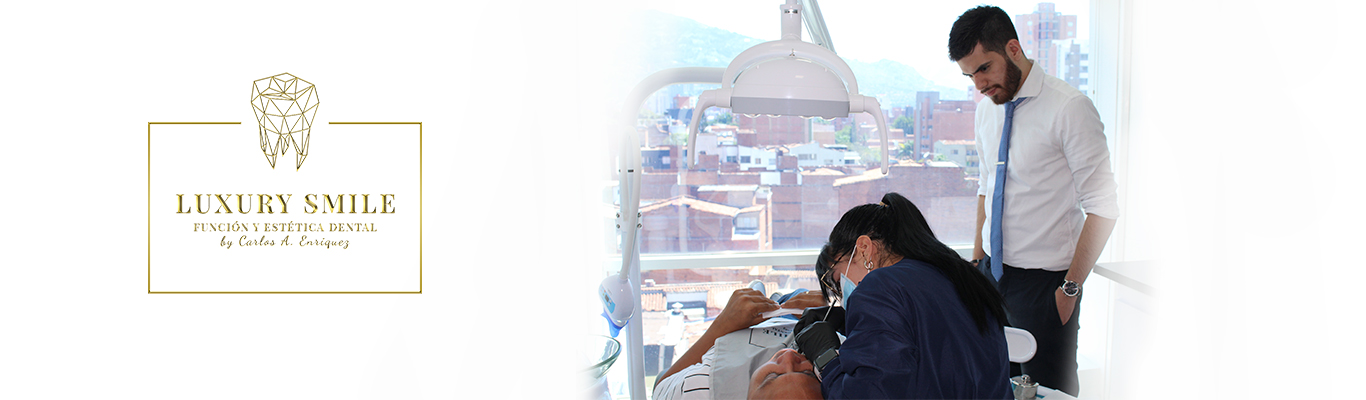
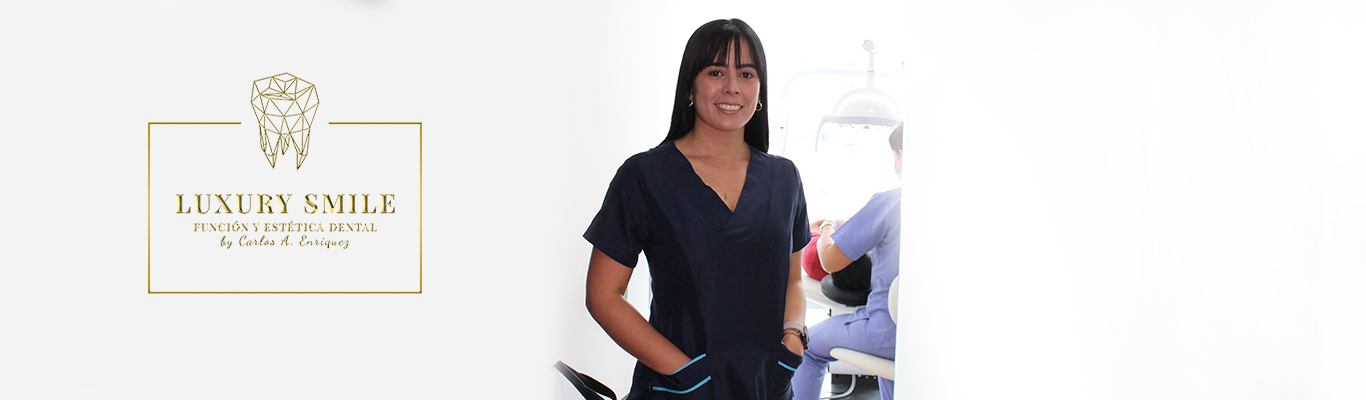
Changes required by client

diff --git a/src/components/Consultory/ConsultoryCarousel.tsx b/src/components/Consultory/ConsultoryCarousel.tsx
@@ -10,6 +10,14 @@ import  ThirdSlide from '../images/slider-desk-nosotros-3.jpg'
 import  ThirdSlideMobile from '../images/slider-mobile-nosotros-3.jpg'
 import  FourthSlide from '../images/slider-desk-nosotros-4.jpg'
 import  FourthSlideMobile from '../images/slider-mobile-nosotros-4.jpg'
+import  FifthSlide from '../images/slider-desk-nosotros-5.jpg'
+import  FifthSlideMobile from '../images/slider-mobile-nosotros-5.jpg'
+import  SixSlide from '../images/slider-desk-nosotros-6.jpg'
+import  SixSlideMobile from '../images/slider-mobile-nosotros-6.jpg'
+import  SeventhSlide from '../images/slider-desk-nosotros-7.jpg'
+import  SeventhSlideMobile from '../images/slider-mobile-nosotros-7.jpg'
+import  EigthSlide from '../images/slider-desk-nosotros-8.jpg'
+import  EigthSlideMobile from '../images/slider-mobile-nosotros-8.jpg'
 import AliceCarousel from 'react-alice-carousel';
 import { NavLink } from "react-router-dom";
 
@@ -21,6 +29,10 @@ const ConsultoryCarousel:React.FC = () => {
         <img src={isMobile ? SecondSlideMobile:SecondSlide} />,
         <img src={isMobile ? ThirdSlideMobile:ThirdSlide} />,
         <img src={isMobile ? FourthSlideMobile:FourthSlide} />,
+        <img src={isMobile ? FifthSlideMobile:FifthSlide} />,
+        <img src={isMobile ? SixSlideMobile:SixSlide} />,
+        <img src={isMobile ? SeventhSlideMobile:SeventhSlide} />,
+        <img src={isMobile ? EigthSlideMobile:EigthSlide} />,
                 
         ]
     return(

diff --git a/src/components/Home/HomeComponents/TreatmentsList.tsx b/src/components/Home/HomeComponents/TreatmentsList.tsx
@@ -10,12 +10,12 @@ const TreatmentsList:TreatmentModel[] = [
         title: 'Diseño de sonrisa',
         imagePath: require('../../images/estetica-dental.jpg'),
         description: 'Mejoramos forma, tamaño, color, texturas, logrando una sonrisa armoniosa en cuanto a biología, función y estética, consiguiendo así una sonrisa perfecta',
+        discount: '10%'
     },
     {
         title: 'Aclaramiento dental',
         imagePath: require('../../images/aclaramiento-dental.jpg'),
         description: 'Es un tratamiento dental estético que logra reducir varios tonos el color original de las piezas dentales, dejando los dientes más blancos y brillantes.',
-        discount: '10%'
     },
     {
         title: 'Operatoria dental',

diff --git a/src/components/Home/HomeComponents/Carousel.tsx b/src/components/Home/HomeComponents/Carousel.tsx
@@ -15,7 +15,7 @@ const Slider:React.FC = () => {
     const isMobile = window.innerWidth <= 600
     const showArrows = isMobile ? true:false
     const galleryItems = [
-        <NavLink className={` flex `} to="/Treatments"><img src={isMobile ? FirstSlideMobile: FirstSlide} /></NavLink>,
+        <NavLink className={` flex `} to="/Appointment"><img src={isMobile ? FirstSlideMobile: FirstSlide} /></NavLink>,
         <NavLink className={` flex `} to="/Contact"><img src={isMobile ? SecondSlideMobile:SecondSlide} /></NavLink>,
         <NavLink className={` flex `} to="/Contact"><img src={isMobile ? ThirdSlideMobile:ThirdSlide} /></NavLink>,
                 

diff --git a/src/shared/TopHeader/TopHeader.tsx b/src/shared/TopHeader/TopHeader.tsx
@@ -48,7 +48,7 @@ const TopHeader = ( props:Props ) => {
                     </a>
                 </div>
                 <div className="">
-                    <a href="https://wa.me/573013719026" target="_blank" className="social-icon">
+                    <a href="https://wa.me/573508736090" target="_blank" className="social-icon">
                         <Whatsapp/>
                     </a>
                 </div>
